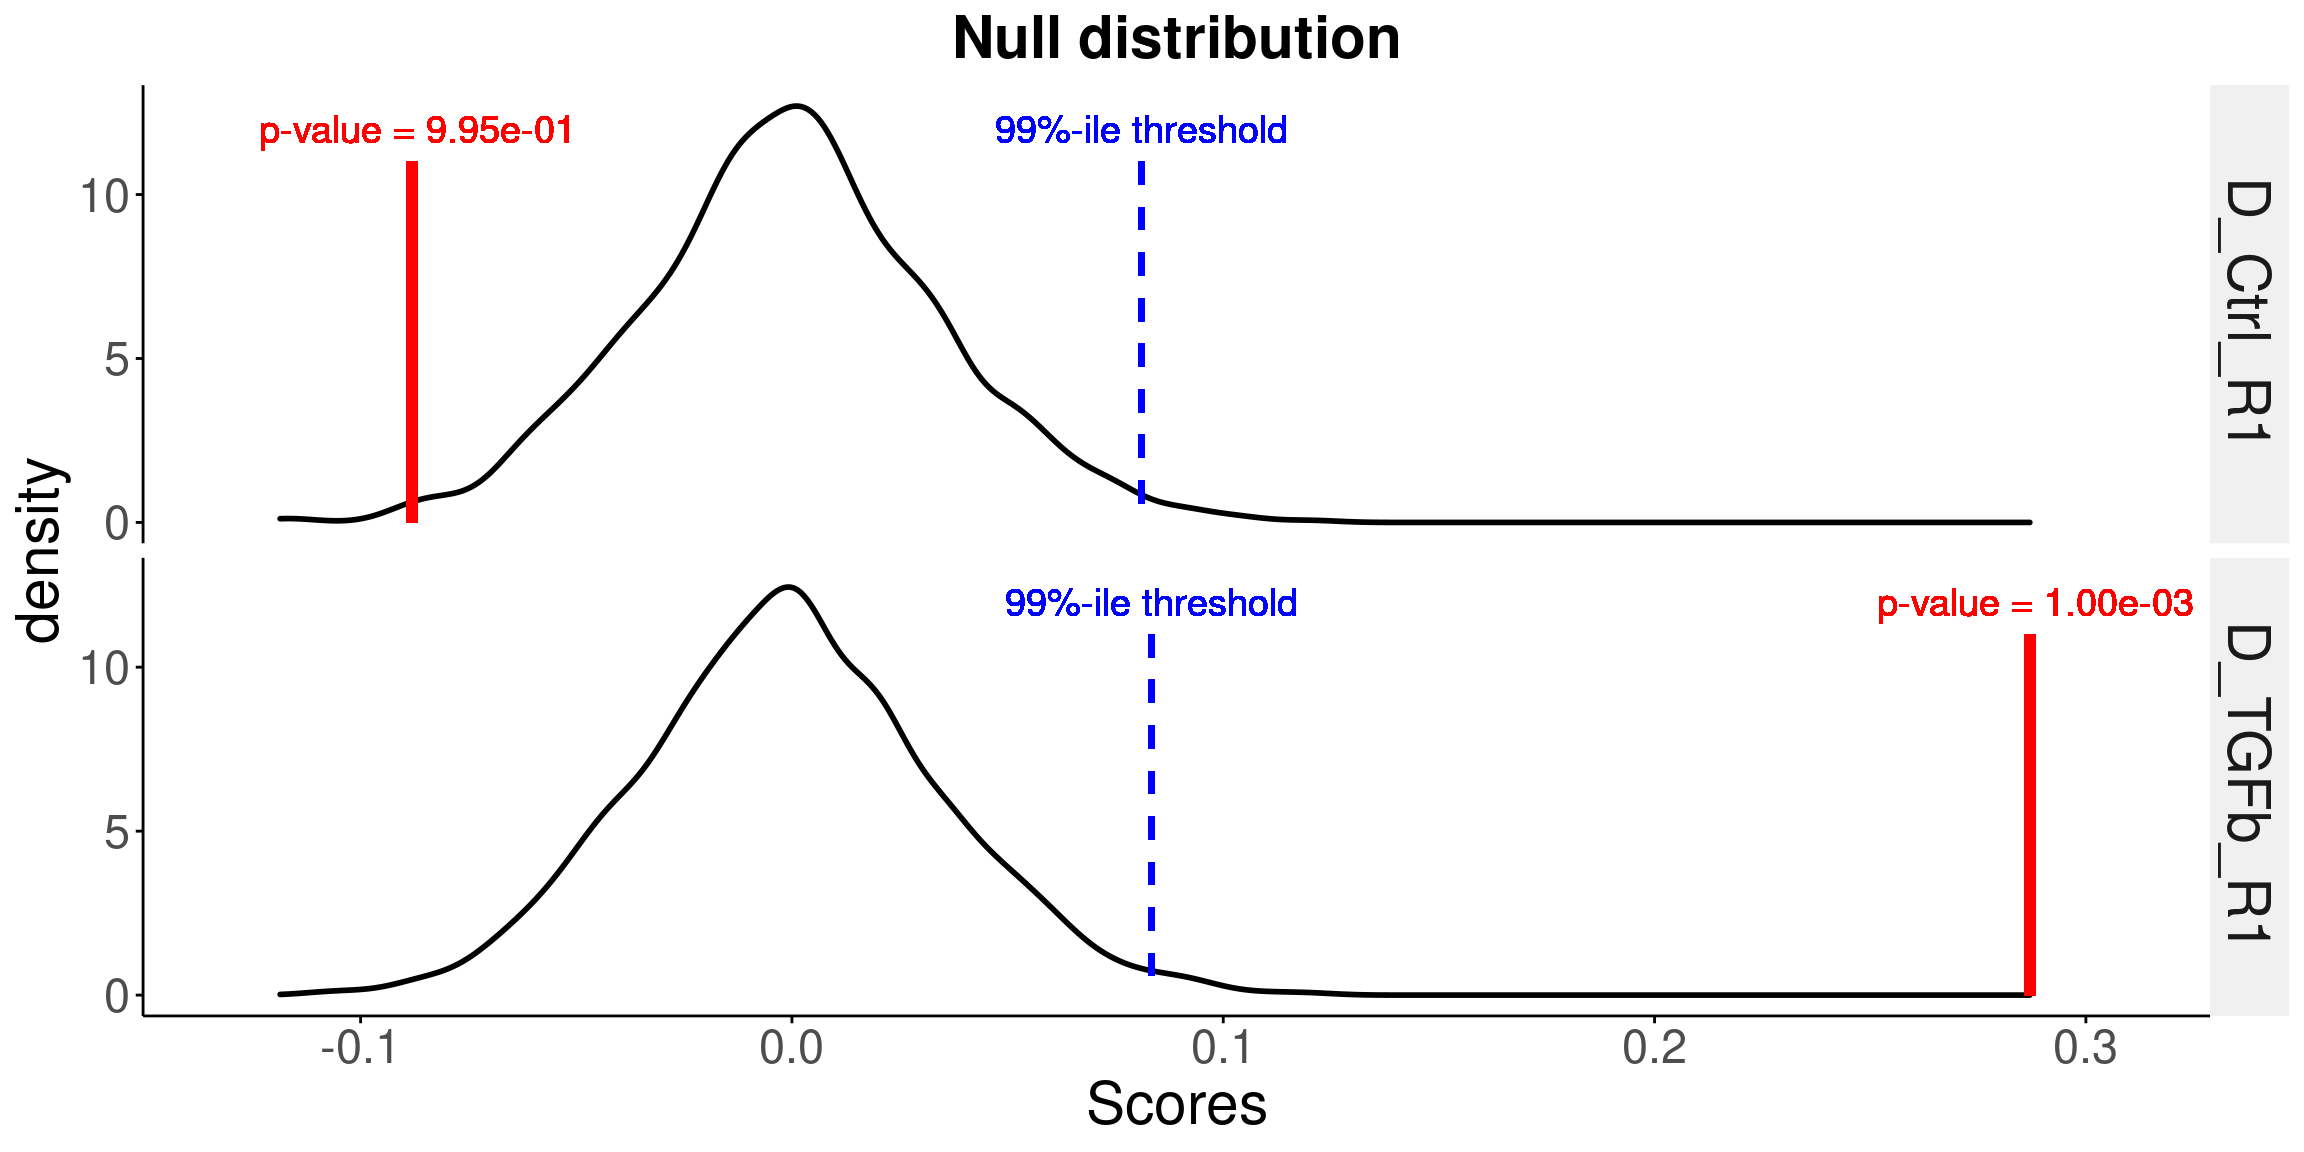
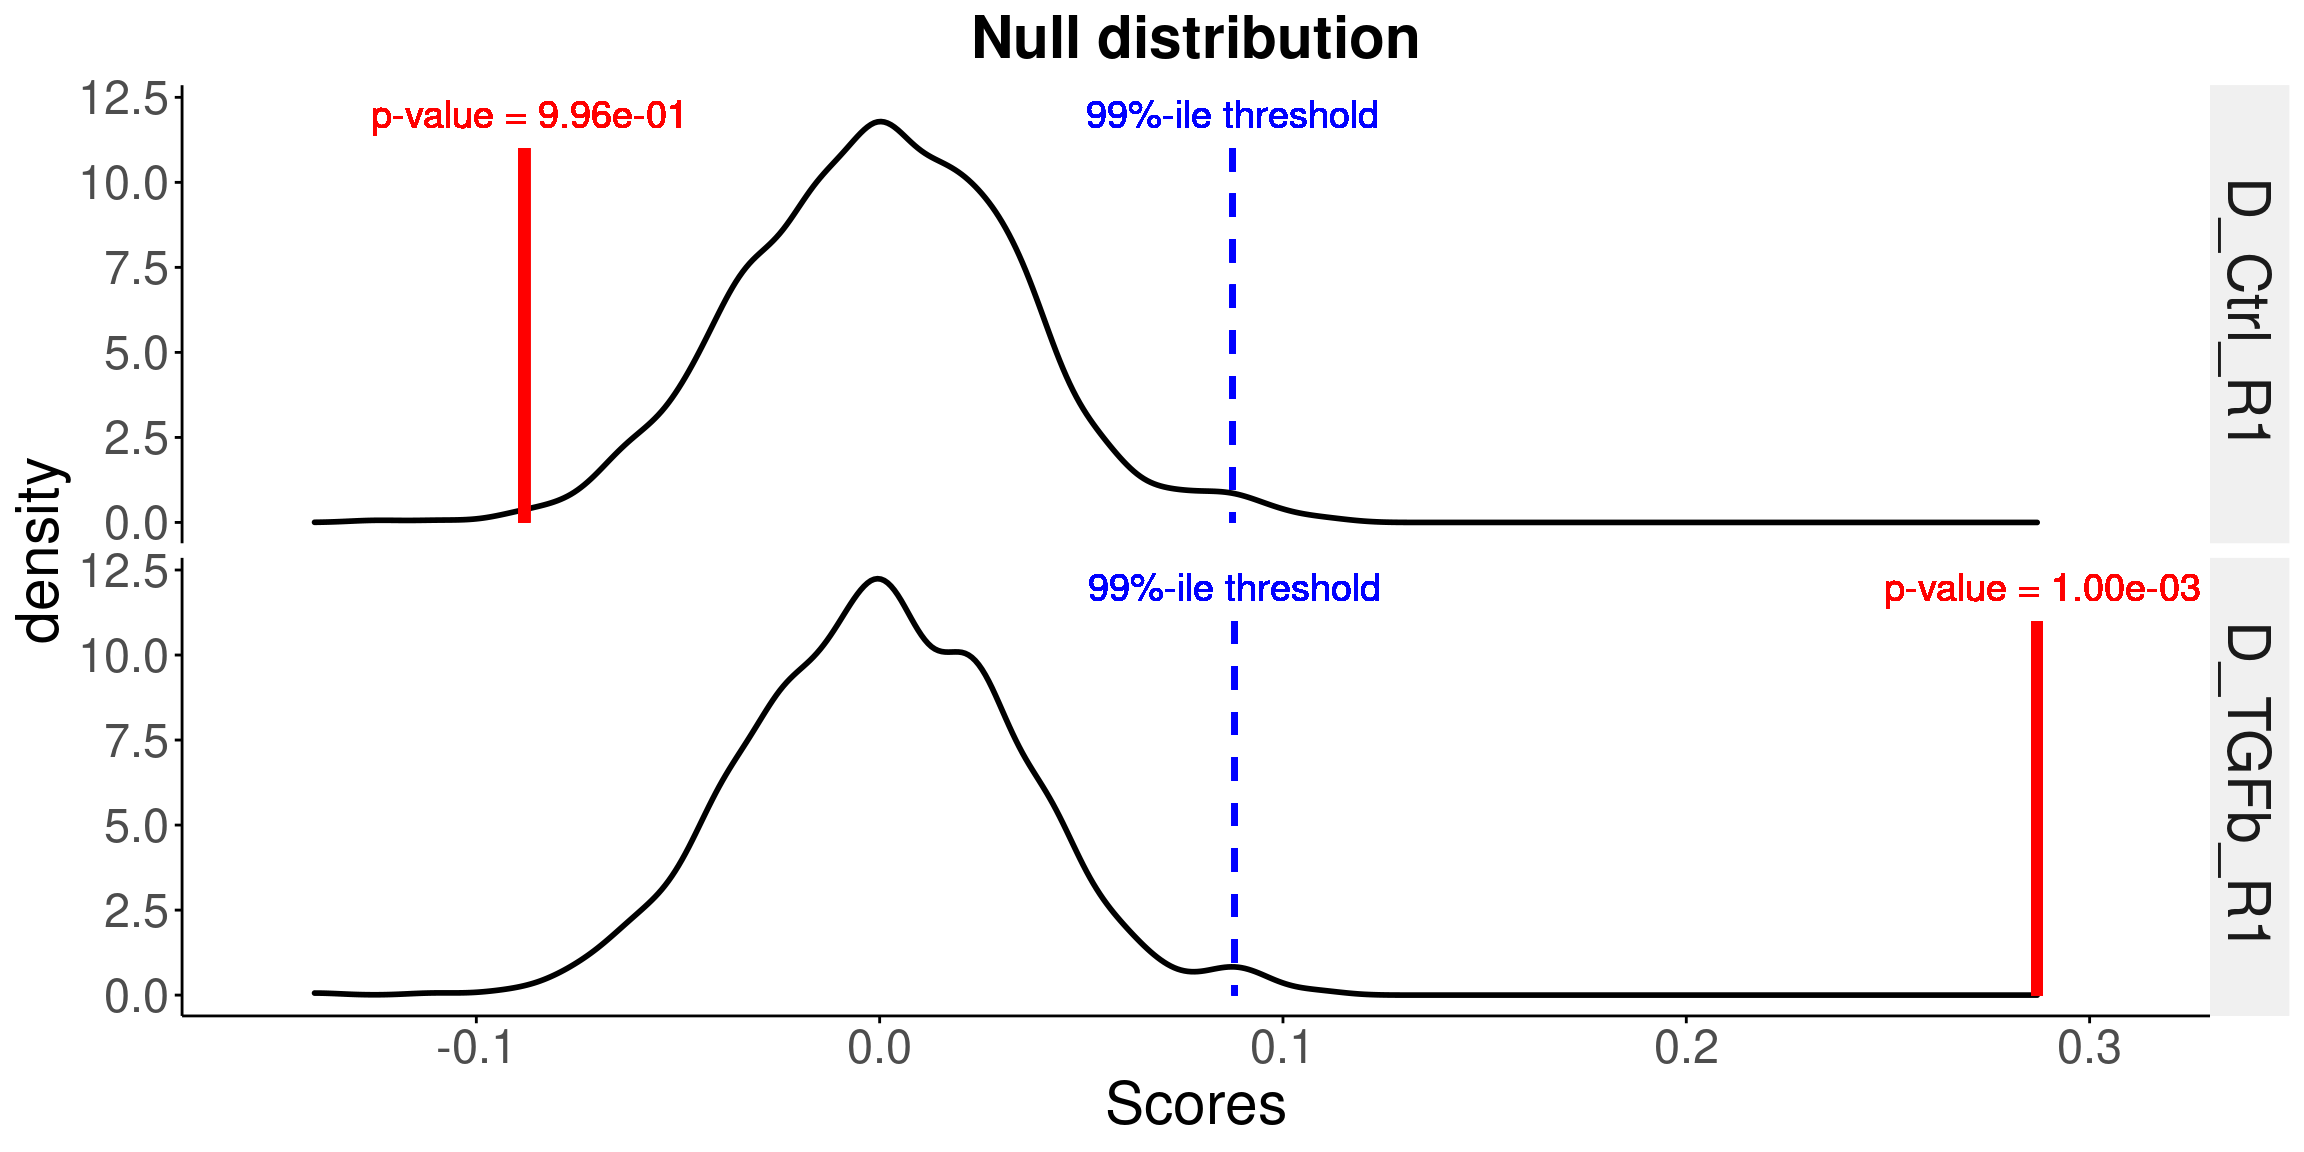
Bug fix in multiscore when dealing with empty genesets. Previously these were discarded but now they are replaced with a row of NAs

diff --git a/docs/articles/singscore.html b/docs/articles/singscore.html
@@ -38,7 +38,7 @@
       </button>
       <span class="navbar-brand">
         <a class="navbar-link" href="../index.html">singscore</a>
-        <span class="version label label-default" data-toggle="tooltip" data-placement="bottom" title="Released version">1.7.2</span>
+        <span class="version label label-default" data-toggle="tooltip" data-placement="bottom" title="Released version">1.7.3</span>
       </span>
     </div>
 
@@ -83,7 +83,7 @@
       <h1 data-toc-skip>singscore</h1>
                         <h4 class="author">Ruqian Lyu</h4>
             
-            <h4 class="date">2020-04-13</h4>
+            <h4 class="date">2020-04-17</h4>
       
       <small class="dont-index">Source: <a href="https://github.com/DavisLaboratory/singscore/blob/master/vignettes/singscore.Rmd"><code>vignettes/singscore.Rmd</code></a></small>
       <div class="hidden name"><code>singscore.Rmd</code></div>
@@ -412,13 +412,13 @@
 <span class="co"># for the simpleScore() function to generate a proper null distribution.</span>
 
 <span class="fu"><a href="https://rdrr.io/r/utils/head.html">head</a></span>(<span class="no">permuteResult</span>)</pre></body></html></div>
-<pre><code>##      D_Ctrl_R1     D_TGFb_R1    D_Ctrl_R2     D_TGFb_R2  Hes_Ctrl_R1
-## 1  0.019971223  0.0211110041  0.012373145  0.0139291989  0.015229466
-## 2 -0.013478508 -0.0279823278 -0.011681197 -0.0279498856 -0.020516542
-## 3 -0.007621490 -0.0128715325 -0.006735819 -0.0158490649 -0.004672112
-## 4  0.064000397  0.0617204020  0.067007491  0.0613224930  0.061926638
-## 5  0.018242684  0.0227562356  0.013420627  0.0239172684  0.021506861
-## 6 -0.006875305  0.0003943495 -0.005049058 -0.0003235853 -0.004703585</code></pre>
+<pre><code>##     D_Ctrl_R1    D_TGFb_R1    D_Ctrl_R2    D_TGFb_R2  Hes_Ctrl_R1
+## 1 -0.05682173 -0.032457705 -0.050855768 -0.030649067 -0.046174823
+## 2 -0.01417528 -0.009707977 -0.011952349 -0.011102685 -0.014937300
+## 3  0.01200191  0.018539172  0.009122433  0.014090692  0.020741985
+## 4 -0.02454460 -0.024698814 -0.027624771 -0.024818584 -0.019656054
+## 5  0.03352702  0.027606055  0.027908416  0.024662055  0.030168712
+## 6 -0.01317022 -0.004350444 -0.014679771 -0.003662747 -0.009803084</code></pre>
 </div>
 <div id="estimate-empirical-p-values" class="section level2">
 <h2 class="hasAnchor">
@@ -430,7 +430,7 @@
 <span class="co"># show the p-values for first 5 samples</span>
 <span class="no">pvals</span></pre></body></html></div>
 <pre><code>##   D_Ctrl_R1   D_TGFb_R1   D_Ctrl_R2   D_TGFb_R2 Hes_Ctrl_R1 
-##       0.995       0.001       0.998       0.001       0.512</code></pre>
+##       0.996       0.001       0.998       0.001       0.530</code></pre>
 </div>
 <div id="plot-null-distribution" class="section level2">
 <h2 class="hasAnchor">
@@ -511,7 +511,7 @@
 ##  [1] GSEABase_1.48.0      graph_1.64.0         annotate_1.64.0     
 ##  [4] XML_3.99-0.3         AnnotationDbi_1.48.0 IRanges_2.20.2      
 ##  [7] S4Vectors_0.24.4     Biobase_2.46.0       BiocGenerics_0.32.0 
-## [10] singscore_1.7.2      BiocStyle_2.14.4    
+## [10] singscore_1.7.3      BiocStyle_2.14.4    
 ## 
 ## loaded via a namespace (and not attached):
 ##  [1] edgeR_3.28.1                tidyr_1.0.2                

diff --git a/docs/reference/multiScore.html b/docs/reference/multiScore.html
@@ -86,7 +86,7 @@ independently." />
       </button>
       <span class="navbar-brand">
         <a class="navbar-link" href="../index.html">singscore</a>
-        <span class="version label label-default" data-toggle="tooltip" data-placement="bottom" title="Released version">1.7.2</span>
+        <span class="version label label-default" data-toggle="tooltip" data-placement="bottom" title="Released version">1.7.3</span>
       </span>
     </div>
 
@@ -214,7 +214,8 @@ up-regulated (or mixed, see <code><a href='simpleScore.html'>simpleScore</a></co
     <tr>
       <th>downSetColc</th>
       <td><p>A GeneSetCollection object or a list of GeneSet objects of
-down-regulated gene sets. NULL otherwise.</p></td>
+down-regulated gene sets. NULL otherwise. Names of gene sets wihtin this
+collection/list should be the same as those of the upSetColc</p></td>
     </tr>
     <tr>
       <th>subSamples</th>

diff --git a/docs/reference/plotScoreLandscape.html b/docs/reference/plotScoreLandscape.html
@@ -88,7 +88,7 @@ column names &quot;TotalScore&quot; &quot;TotalDispersion&quot; &quot;UpScore&qu
       </button>
       <span class="navbar-brand">
         <a class="navbar-link" href="../index.html">singscore</a>
-        <span class="version label label-default" data-toggle="tooltip" data-placement="bottom" title="Released version">1.7.2</span>
+        <span class="version label label-default" data-toggle="tooltip" data-placement="bottom" title="Released version">1.7.3</span>
       </span>
     </div>
 

diff --git a/docs/reference/simpleScore.html b/docs/reference/simpleScore.html
@@ -88,7 +88,7 @@ ontologies where the nature of the genes is unknown (up- or down-regulated)." />
       </button>
       <span class="navbar-brand">
         <a class="navbar-link" href="../index.html">singscore</a>
-        <span class="version label label-default" data-toggle="tooltip" data-placement="bottom" title="Released version">1.7.2</span>
+        <span class="version label label-default" data-toggle="tooltip" data-placement="bottom" title="Released version">1.7.3</span>
       </span>
     </div>
 

diff --git a/docs/reference/plotRankDensity_intl.html b/docs/reference/plotRankDensity_intl.html
@@ -82,7 +82,7 @@ and it returns plots visualising the density and the rugs of the ran ks." />
       </button>
       <span class="navbar-brand">
         <a class="navbar-link" href="../index.html">singscore</a>
-        <span class="version label label-default" data-toggle="tooltip" data-placement="bottom" title="Released version">1.7.2</span>
+        <span class="version label label-default" data-toggle="tooltip" data-placement="bottom" title="Released version">1.7.3</span>
       </span>
     </div>
 

diff --git a/docs/reference/rankGenes.html b/docs/reference/rankGenes.html
@@ -90,7 +90,7 @@ gene expression matrix from the object and rank the genes. The default
       </button>
       <span class="navbar-brand">
         <a class="navbar-link" href="../index.html">singscore</a>
-        <span class="version label label-default" data-toggle="tooltip" data-placement="bottom" title="Released version">1.7.2</span>
+        <span class="version label label-default" data-toggle="tooltip" data-placement="bottom" title="Released version">1.7.3</span>
       </span>
     </div>
 

diff --git a/docs/reference/tgfb_gs_dn.html b/docs/reference/tgfb_gs_dn.html
@@ -84,7 +84,7 @@ vignettes for the steps to acquire the exact data object." />
       </button>
       <span class="navbar-brand">
         <a class="navbar-link" href="../index.html">singscore</a>
-        <span class="version label label-default" data-toggle="tooltip" data-placement="bottom" title="Released version">1.7.2</span>
+        <span class="version label label-default" data-toggle="tooltip" data-placement="bottom" title="Released version">1.7.3</span>
       </span>
     </div>
 

diff --git a/docs/reference/tgfb_gs_up.html b/docs/reference/tgfb_gs_up.html
@@ -84,7 +84,7 @@ vignettes for the steps to acquire the exact data object." />
       </button>
       <span class="navbar-brand">
         <a class="navbar-link" href="../index.html">singscore</a>
-        <span class="version label label-default" data-toggle="tooltip" data-placement="bottom" title="Released version">1.7.2</span>
+        <span class="version label label-default" data-toggle="tooltip" data-placement="bottom" title="Released version">1.7.3</span>
       </span>
     </div>
 

diff --git a/docs/reference/scoredf_ccle_epi.html b/docs/reference/scoredf_ccle_epi.html
@@ -85,7 +85,7 @@ instructions on how to obtain the full datasets." />
       </button>
       <span class="navbar-brand">
         <a class="navbar-link" href="../index.html">singscore</a>
-        <span class="version label label-default" data-toggle="tooltip" data-placement="bottom" title="Released version">1.7.2</span>
+        <span class="version label label-default" data-toggle="tooltip" data-placement="bottom" title="Released version">1.7.3</span>
       </span>
     </div>
 

diff --git a/docs/reference/scoredf_ccle_mes.html b/docs/reference/scoredf_ccle_mes.html
@@ -85,7 +85,7 @@ instructions on how to obtain the full datasets." />
       </button>
       <span class="navbar-brand">
         <a class="navbar-link" href="../index.html">singscore</a>
-        <span class="version label label-default" data-toggle="tooltip" data-placement="bottom" title="Released version">1.7.2</span>
+        <span class="version label label-default" data-toggle="tooltip" data-placement="bottom" title="Released version">1.7.3</span>
       </span>
     </div>
 

diff --git a/docs/reference/getPvals.html b/docs/reference/getPvals.html
@@ -82,7 +82,7 @@ of 1/B can be achieved with B permutations." />
       </button>
       <span class="navbar-brand">
         <a class="navbar-link" href="../index.html">singscore</a>
-        <span class="version label label-default" data-toggle="tooltip" data-placement="bottom" title="Released version">1.7.2</span>
+        <span class="version label label-default" data-toggle="tooltip" data-placement="bottom" title="Released version">1.7.3</span>
       </span>
     </div>
 

diff --git a/docs/reference/toy_gs_dn.html b/docs/reference/toy_gs_dn.html
@@ -81,7 +81,7 @@ genes are independent of those in toy_gs_up" />
       </button>
       <span class="navbar-brand">
         <a class="navbar-link" href="../index.html">singscore</a>
-        <span class="version label label-default" data-toggle="tooltip" data-placement="bottom" title="Released version">1.7.2</span>
+        <span class="version label label-default" data-toggle="tooltip" data-placement="bottom" title="Released version">1.7.3</span>
       </span>
     </div>
 
